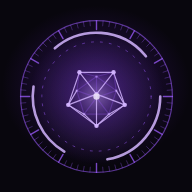
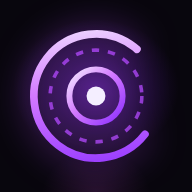
Icône et écran de lancement au style ORACLE
Claude-Session: https://claude.ai/code/session_0167kwFewpaRHV5jPAEnTrKU

diff --git a/sw.js b/sw.js
@@ -1,6 +1,6 @@
 /* N.O.V.A — service worker : l'appli marche sans Internet, les fichiers « _blob/<id> » viennent du téléphone,
    et une nouvelle version n'est activée que quand Joka touche « Mettre à jour ». */
-const VERSION = "nova-2.2.1";
+const VERSION = "nova-2.2.2";
 const COQUE = [
   "./", "index.html", "manifest.webmanifest",
   "css/v1.css", "css/nova.css",
